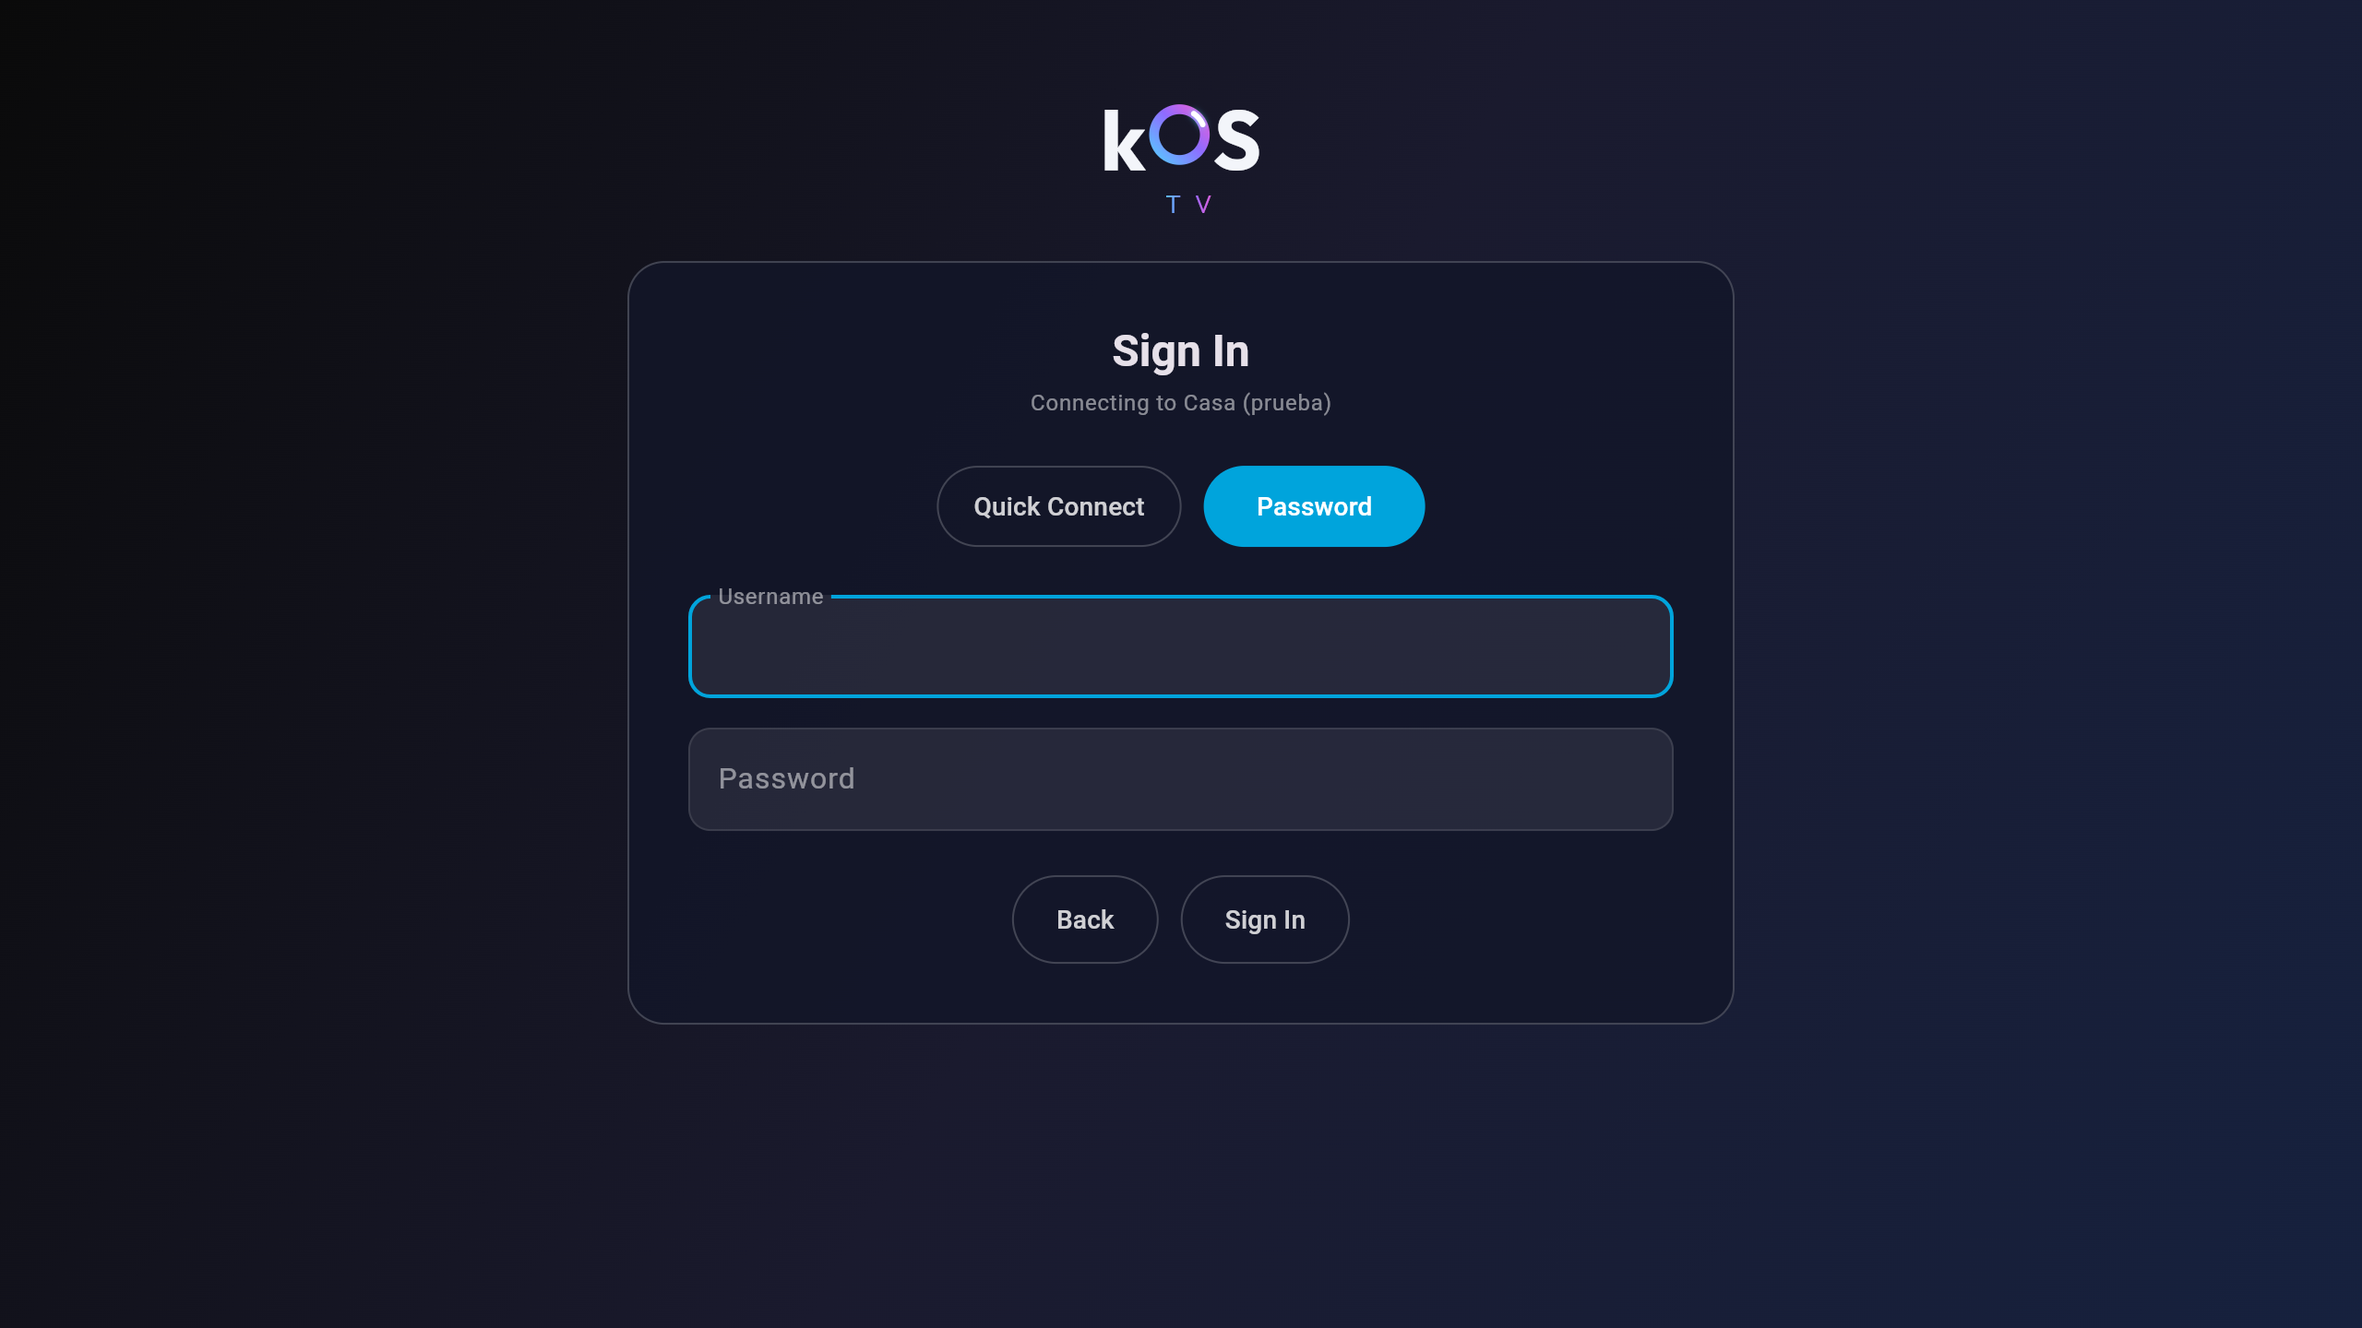
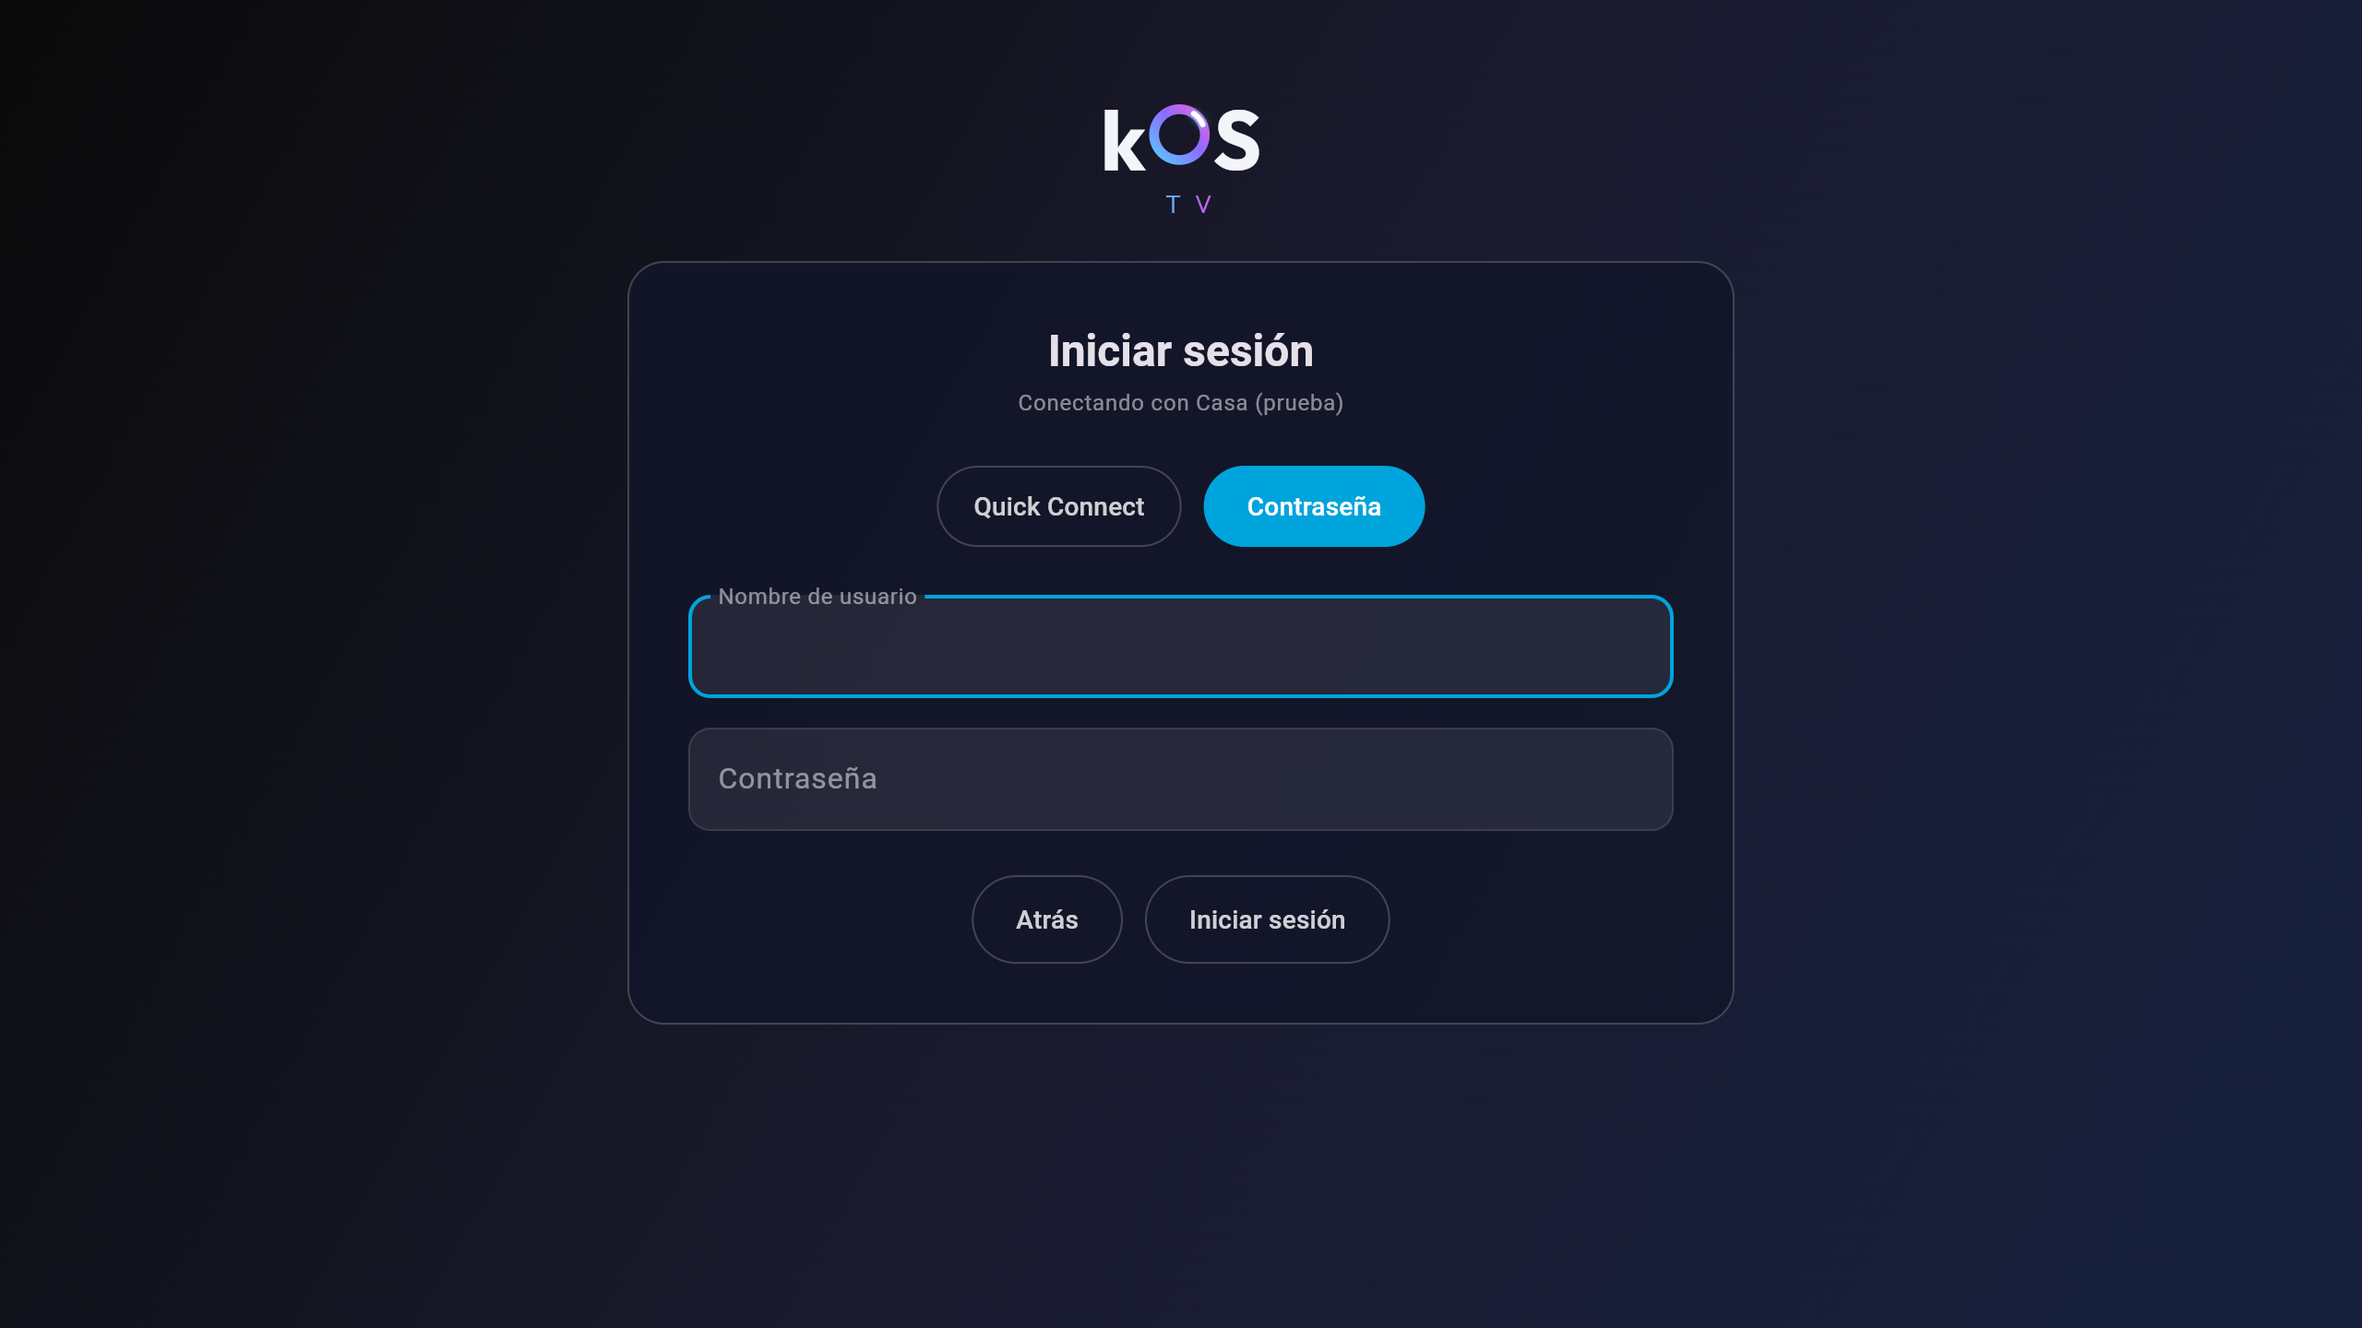
Inicio: títulos de las filas de TMDB, Radarr, Sonarr y Volver a ver en español
Estaban escritos en inglés en home_view_model.dart, así que salían en inglés
aunque la app estuviera en español. Ahora salen de lib/l10n (con los textos
que ya existían cuando los había: Películas populares, Próximas películas,
Próximos estrenos, Porque has visto, Radarr y Sonarr).

docs/marca: la captura del inicio de sesión, ya en español.

Claude-Session: https://claude.ai/code/session_01DRgtEf7WK78yozHf1ej3g5

diff --git a/lib/ui/screens/home/home_view_model.dart b/lib/ui/screens/home/home_view_model.dart
@@ -1827,31 +1827,31 @@ class HomeViewModel extends ChangeNotifier {
           'imdb_top_english_movies',
         );
       case HomeSectionType.tmdbPopularMovies:
-        return _loadTmdbChartRow(HomeSectionType.tmdbPopularMovies, 'Popular Movies', 'tmdb_popular_movies');
+        return _loadTmdbChartRow(HomeSectionType.tmdbPopularMovies, l10n.popularMovies, 'tmdb_popular_movies');
       case HomeSectionType.tmdbTopRatedMovies:
-        return _loadTmdbChartRow(HomeSectionType.tmdbTopRatedMovies, 'Top Rated Movies', 'tmdb_top_rated_movies');
+        return _loadTmdbChartRow(HomeSectionType.tmdbTopRatedMovies, l10n.kostvTmdbTopRatedMovies, 'tmdb_top_rated_movies');
       case HomeSectionType.tmdbNowPlayingMovies:
-        return _loadTmdbChartRow(HomeSectionType.tmdbNowPlayingMovies, 'Now Playing Movies', 'tmdb_now_playing_movies');
+        return _loadTmdbChartRow(HomeSectionType.tmdbNowPlayingMovies, l10n.kostvTmdbNowPlayingMovies, 'tmdb_now_playing_movies');
       case HomeSectionType.tmdbUpcomingMovies:
-        return _loadTmdbChartRow(HomeSectionType.tmdbUpcomingMovies, 'Upcoming Movies', 'tmdb_upcoming_movies');
+        return _loadTmdbChartRow(HomeSectionType.tmdbUpcomingMovies, l10n.upcomingMovies, 'tmdb_upcoming_movies');
       case HomeSectionType.tmdbPopularTv:
-        return _loadTmdbChartRow(HomeSectionType.tmdbPopularTv, 'Popular TV', 'tmdb_popular_tv');
+        return _loadTmdbChartRow(HomeSectionType.tmdbPopularTv, l10n.kostvTmdbPopularTv, 'tmdb_popular_tv');
       case HomeSectionType.tmdbTopRatedTv:
-        return _loadTmdbChartRow(HomeSectionType.tmdbTopRatedTv, 'Top Rated TV', 'tmdb_top_rated_tv');
+        return _loadTmdbChartRow(HomeSectionType.tmdbTopRatedTv, l10n.kostvTmdbTopRatedTv, 'tmdb_top_rated_tv');
       case HomeSectionType.tmdbAiringTodayTv:
-        return _loadTmdbChartRow(HomeSectionType.tmdbAiringTodayTv, 'Airing Today TV', 'tmdb_airing_today_tv');
+        return _loadTmdbChartRow(HomeSectionType.tmdbAiringTodayTv, l10n.kostvTmdbAiringTodayTv, 'tmdb_airing_today_tv');
       case HomeSectionType.tmdbOnTheAirTv:
-        return _loadTmdbChartRow(HomeSectionType.tmdbOnTheAirTv, 'On The Air TV', 'tmdb_on_the_air_tv');
+        return _loadTmdbChartRow(HomeSectionType.tmdbOnTheAirTv, l10n.kostvTmdbOnTheAirTv, 'tmdb_on_the_air_tv');
       case HomeSectionType.tmdbTrendingMovieDaily:
-        return _loadTmdbChartRow(HomeSectionType.tmdbTrendingMovieDaily, 'Trending Movies (Daily)', 'tmdb_trending_movie_daily');
+        return _loadTmdbChartRow(HomeSectionType.tmdbTrendingMovieDaily, l10n.kostvTmdbTrendingMoviesDaily, 'tmdb_trending_movie_daily');
       case HomeSectionType.tmdbTrendingMovieWeekly:
-        return _loadTmdbChartRow(HomeSectionType.tmdbTrendingMovieWeekly, 'Trending Movies (Weekly)', 'tmdb_trending_movie_weekly');
+        return _loadTmdbChartRow(HomeSectionType.tmdbTrendingMovieWeekly, l10n.kostvTmdbTrendingMoviesWeekly, 'tmdb_trending_movie_weekly');
       case HomeSectionType.tmdbTrendingTvDaily:
-        return _loadTmdbChartRow(HomeSectionType.tmdbTrendingTvDaily, 'Trending TV (Daily)', 'tmdb_trending_tv_daily');
+        return _loadTmdbChartRow(HomeSectionType.tmdbTrendingTvDaily, l10n.kostvTmdbTrendingTvDaily, 'tmdb_trending_tv_daily');
       case HomeSectionType.tmdbTrendingTvWeekly:
-        return _loadTmdbChartRow(HomeSectionType.tmdbTrendingTvWeekly, 'Trending TV (Weekly)', 'tmdb_trending_tv_weekly');
+        return _loadTmdbChartRow(HomeSectionType.tmdbTrendingTvWeekly, l10n.kostvTmdbTrendingTvWeekly, 'tmdb_trending_tv_weekly');
       case HomeSectionType.tmdbTrendingAllWeekly:
-        return _loadTmdbChartRow(HomeSectionType.tmdbTrendingAllWeekly, 'Trending All (Weekly)', 'tmdb_trending_all_weekly');
+        return _loadTmdbChartRow(HomeSectionType.tmdbTrendingAllWeekly, l10n.kostvTmdbTrendingAllWeekly, 'tmdb_trending_all_weekly');
       case HomeSectionType.mdblistWatchingNow:
         return _loadMdblistWatchingNowRow(l10n);
       case HomeSectionType.recentlyReleased:
@@ -2214,14 +2214,14 @@ class HomeViewModel extends ChangeNotifier {
       case HomeSectionType.radarrCalendar:
         return HomeRow(
           id: 'radarr_calendar',
-          title: 'Upcoming Movies (Radarr)',
+          title: l10n.radarrCalendarRow,
           rowType: HomeRowType.pluginDynamic,
           isLoading: true,
         );
       case HomeSectionType.sonarrCalendar:
         return HomeRow(
           id: 'sonarr_calendar',
-          title: 'Upcoming TV Shows (Sonarr)',
+          title: l10n.sonarrCalendarRow,
           rowType: HomeRowType.pluginDynamic,
           isLoading: true,
         );
@@ -2270,91 +2270,91 @@ class HomeViewModel extends ChangeNotifier {
       case HomeSectionType.tmdbPopularMovies:
         return HomeRow(
           id: 'tmdb_popular_movies',
-          title: 'Popular Movies',
+          title: l10n.popularMovies,
           rowType: HomeRowType.pluginDynamic,
           isLoading: true,
         );
       case HomeSectionType.tmdbTopRatedMovies:
         return HomeRow(
           id: 'tmdb_top_rated_movies',
-          title: 'Top Rated Movies',
+          title: l10n.kostvTmdbTopRatedMovies,
           rowType: HomeRowType.pluginDynamic,
           isLoading: true,
         );
       case HomeSectionType.tmdbNowPlayingMovies:
         return HomeRow(
           id: 'tmdb_now_playing_movies',
-          title: 'Now Playing Movies',
+          title: l10n.kostvTmdbNowPlayingMovies,
           rowType: HomeRowType.pluginDynamic,
           isLoading: true,
         );
       case HomeSectionType.tmdbUpcomingMovies:
         return HomeRow(
           id: 'tmdb_upcoming_movies',
-          title: 'Upcoming Movies',
+          title: l10n.upcomingMovies,
           rowType: HomeRowType.pluginDynamic,
           isLoading: true,
         );
       case HomeSectionType.tmdbPopularTv:
         return HomeRow(
           id: 'tmdb_popular_tv',
-          title: 'Popular TV',
+          title: l10n.kostvTmdbPopularTv,
           rowType: HomeRowType.pluginDynamic,
           isLoading: true,
         );
       case HomeSectionType.tmdbTopRatedTv:
         return HomeRow(
           id: 'tmdb_top_rated_tv',
-          title: 'Top Rated TV',
+          title: l10n.kostvTmdbTopRatedTv,
           rowType: HomeRowType.pluginDynamic,
           isLoading: true,
         );
       case HomeSectionType.tmdbAiringTodayTv:
         return HomeRow(
           id: 'tmdb_airing_today_tv',
-          title: 'Airing Today TV',
+          title: l10n.kostvTmdbAiringTodayTv,
           rowType: HomeRowType.pluginDynamic,
           isLoading: true,
         );
       case HomeSectionType.tmdbOnTheAirTv:
         return HomeRow(
           id: 'tmdb_on_the_air_tv',
-          title: 'On The Air TV',
+          title: l10n.kostvTmdbOnTheAirTv,
           rowType: HomeRowType.pluginDynamic,
           isLoading: true,
         );
       case HomeSectionType.tmdbTrendingMovieDaily:
         return HomeRow(
           id: 'tmdb_trending_movie_daily',
-          title: 'Trending Movies (Daily)',
+          title: l10n.kostvTmdbTrendingMoviesDaily,
           rowType: HomeRowType.pluginDynamic,
           isLoading: true,
         );
       case HomeSectionType.tmdbTrendingMovieWeekly:
         return HomeRow(
           id: 'tmdb_trending_movie_weekly',
-          title: 'Trending Movies (Weekly)',
+          title: l10n.kostvTmdbTrendingMoviesWeekly,
           rowType: HomeRowType.pluginDynamic,
           isLoading: true,
         );
       case HomeSectionType.tmdbTrendingTvDaily:
         return HomeRow(
           id: 'tmdb_trending_tv_daily',
-          title: 'Trending TV (Daily)',
+          title: l10n.kostvTmdbTrendingTvDaily,
           rowType: HomeRowType.pluginDynamic,
           isLoading: true,
         );
       case HomeSectionType.tmdbTrendingTvWeekly:
         return HomeRow(
           id: 'tmdb_trending_tv_weekly',
-          title: 'Trending TV (Weekly)',
+          title: l10n.kostvTmdbTrendingTvWeekly,
           rowType: HomeRowType.pluginDynamic,
           isLoading: true,
         );
       case HomeSectionType.tmdbTrendingAllWeekly:
         return HomeRow(
           id: 'tmdb_trending_all_weekly',
-          title: 'Trending All (Weekly)',
+          title: l10n.kostvTmdbTrendingAllWeekly,
           rowType: HomeRowType.pluginDynamic,
           isLoading: true,
         );
@@ -2397,14 +2397,14 @@ class HomeViewModel extends ChangeNotifier {
         final index = section.sinceYouWatchedRow;
         return HomeRow(
           id: 'sinceYouWatched$index',
-          title: 'Since you watched',
+          title: l10n.sinceYouWatchedRowTitle,
           rowType: HomeRowType.latestMedia,
           isLoading: true,
         );
       case HomeSectionType.rewatch:
         return HomeRow(
           id: 'rewatch',
-          title: 'Rewatch',
+          title: l10n.kostvRewatchRow,
           rowType: HomeRowType.latestMedia,
           isLoading: true,
         );
@@ -3909,7 +3909,7 @@ class HomeViewModel extends ChangeNotifier {
       return [
         HomeRow(
           id: 'radarr_calendar',
-          title: 'Upcoming Movies (Radarr)',
+          title: currentAppLocalizations().radarrCalendarRow,
           rowType: HomeRowType.pluginDynamic,
           items: items,
         )
@@ -3964,7 +3964,7 @@ class HomeViewModel extends ChangeNotifier {
       return [
         HomeRow(
           id: 'sonarr_calendar',
-          title: 'Upcoming TV Shows (Sonarr)',
+          title: currentAppLocalizations().sonarrCalendarRow,
           rowType: HomeRowType.pluginDynamic,
           items: items,
         )
@@ -4397,7 +4397,7 @@ class HomeViewModel extends ChangeNotifier {
       return [
         HomeRow(
           id: 'merged_calendar',
-          title: 'Upcoming Releases',
+          title: currentAppLocalizations().mergedCalendarRow,
           rowType: HomeRowType.pluginDynamic,
           items: mergedItems,
         )

diff --git a/lib/l10n/app_localizations.dart b/lib/l10n/app_localizations.dart
@@ -31196,6 +31196,78 @@ abstract class AppLocalizations {
   /// In en, this message translates to:
   /// **'Capture media, login and network logs and send them to the server as a report'**
   String get kostvDiagnosticsSubtitle;
+
+  /// Kos TV: title of a TMDB chart row on the home screen
+  ///
+  /// In en, this message translates to:
+  /// **'Top Rated Movies'**
+  String get kostvTmdbTopRatedMovies;
+
+  /// Kos TV: title of a TMDB chart row on the home screen
+  ///
+  /// In en, this message translates to:
+  /// **'Now Playing Movies'**
+  String get kostvTmdbNowPlayingMovies;
+
+  /// Kos TV: title of a TMDB chart row on the home screen
+  ///
+  /// In en, this message translates to:
+  /// **'Popular TV'**
+  String get kostvTmdbPopularTv;
+
+  /// Kos TV: title of a TMDB chart row on the home screen
+  ///
+  /// In en, this message translates to:
+  /// **'Top Rated TV'**
+  String get kostvTmdbTopRatedTv;
+
+  /// Kos TV: title of a TMDB chart row on the home screen
+  ///
+  /// In en, this message translates to:
+  /// **'Airing Today TV'**
+  String get kostvTmdbAiringTodayTv;
+
+  /// Kos TV: title of a TMDB chart row on the home screen
+  ///
+  /// In en, this message translates to:
+  /// **'On The Air TV'**
+  String get kostvTmdbOnTheAirTv;
+
+  /// Kos TV: title of a TMDB chart row on the home screen
+  ///
+  /// In en, this message translates to:
+  /// **'Trending Movies (Daily)'**
+  String get kostvTmdbTrendingMoviesDaily;
+
+  /// Kos TV: title of a TMDB chart row on the home screen
+  ///
+  /// In en, this message translates to:
+  /// **'Trending Movies (Weekly)'**
+  String get kostvTmdbTrendingMoviesWeekly;
+
+  /// Kos TV: title of a TMDB chart row on the home screen
+  ///
+  /// In en, this message translates to:
+  /// **'Trending TV (Daily)'**
+  String get kostvTmdbTrendingTvDaily;
+
+  /// Kos TV: title of a TMDB chart row on the home screen
+  ///
+  /// In en, this message translates to:
+  /// **'Trending TV (Weekly)'**
+  String get kostvTmdbTrendingTvWeekly;
+
+  /// Kos TV: title of a TMDB chart row on the home screen
+  ///
+  /// In en, this message translates to:
+  /// **'Trending All (Weekly)'**
+  String get kostvTmdbTrendingAllWeekly;
+
+  /// Kos TV: title of the home row with finished items to watch again
+  ///
+  /// In en, this message translates to:
+  /// **'Rewatch'**
+  String get kostvRewatchRow;
 }
 
 class _AppLocalizationsDelegate

diff --git a/lib/l10n/app_localizations_es.dart b/lib/l10n/app_localizations_es.dart
@@ -18382,4 +18382,41 @@ class AppLocalizationsEs extends AppLocalizations {
   @override
   String get kostvDiagnosticsSubtitle =>
       'Guarda registros de reproducción, inicio de sesión y red y envíalos al servidor como informe';
+
+  @override
+  String get kostvTmdbTopRatedMovies => 'Películas mejor valoradas';
+
+  @override
+  String get kostvTmdbNowPlayingMovies => 'En cines';
+
+  @override
+  String get kostvTmdbPopularTv => 'Series populares';
+
+  @override
+  String get kostvTmdbTopRatedTv => 'Series mejor valoradas';
+
+  @override
+  String get kostvTmdbAiringTodayTv => 'Series que se emiten hoy';
+
+  @override
+  String get kostvTmdbOnTheAirTv => 'Series en emisión';
+
+  @override
+  String get kostvTmdbTrendingMoviesDaily => 'Películas en tendencia (hoy)';
+
+  @override
+  String get kostvTmdbTrendingMoviesWeekly =>
+      'Películas en tendencia (esta semana)';
+
+  @override
+  String get kostvTmdbTrendingTvDaily => 'Series en tendencia (hoy)';
+
+  @override
+  String get kostvTmdbTrendingTvWeekly => 'Series en tendencia (esta semana)';
+
+  @override
+  String get kostvTmdbTrendingAllWeekly => 'En tendencia (esta semana)';
+
+  @override
+  String get kostvRewatchRow => 'Volver a ver';
 }

diff --git a/lib/l10n/app_localizations_en.dart b/lib/l10n/app_localizations_en.dart
@@ -18061,4 +18061,40 @@ class AppLocalizationsEn extends AppLocalizations {
   @override
   String get kostvDiagnosticsSubtitle =>
       'Capture media, login and network logs and send them to the server as a report';
+
+  @override
+  String get kostvTmdbTopRatedMovies => 'Top Rated Movies';
+
+  @override
+  String get kostvTmdbNowPlayingMovies => 'Now Playing Movies';
+
+  @override
+  String get kostvTmdbPopularTv => 'Popular TV';
+
+  @override
+  String get kostvTmdbTopRatedTv => 'Top Rated TV';
+
+  @override
+  String get kostvTmdbAiringTodayTv => 'Airing Today TV';
+
+  @override
+  String get kostvTmdbOnTheAirTv => 'On The Air TV';
+
+  @override
+  String get kostvTmdbTrendingMoviesDaily => 'Trending Movies (Daily)';
+
+  @override
+  String get kostvTmdbTrendingMoviesWeekly => 'Trending Movies (Weekly)';
+
+  @override
+  String get kostvTmdbTrendingTvDaily => 'Trending TV (Daily)';
+
+  @override
+  String get kostvTmdbTrendingTvWeekly => 'Trending TV (Weekly)';
+
+  @override
+  String get kostvTmdbTrendingAllWeekly => 'Trending All (Weekly)';
+
+  @override
+  String get kostvRewatchRow => 'Rewatch';
 }
